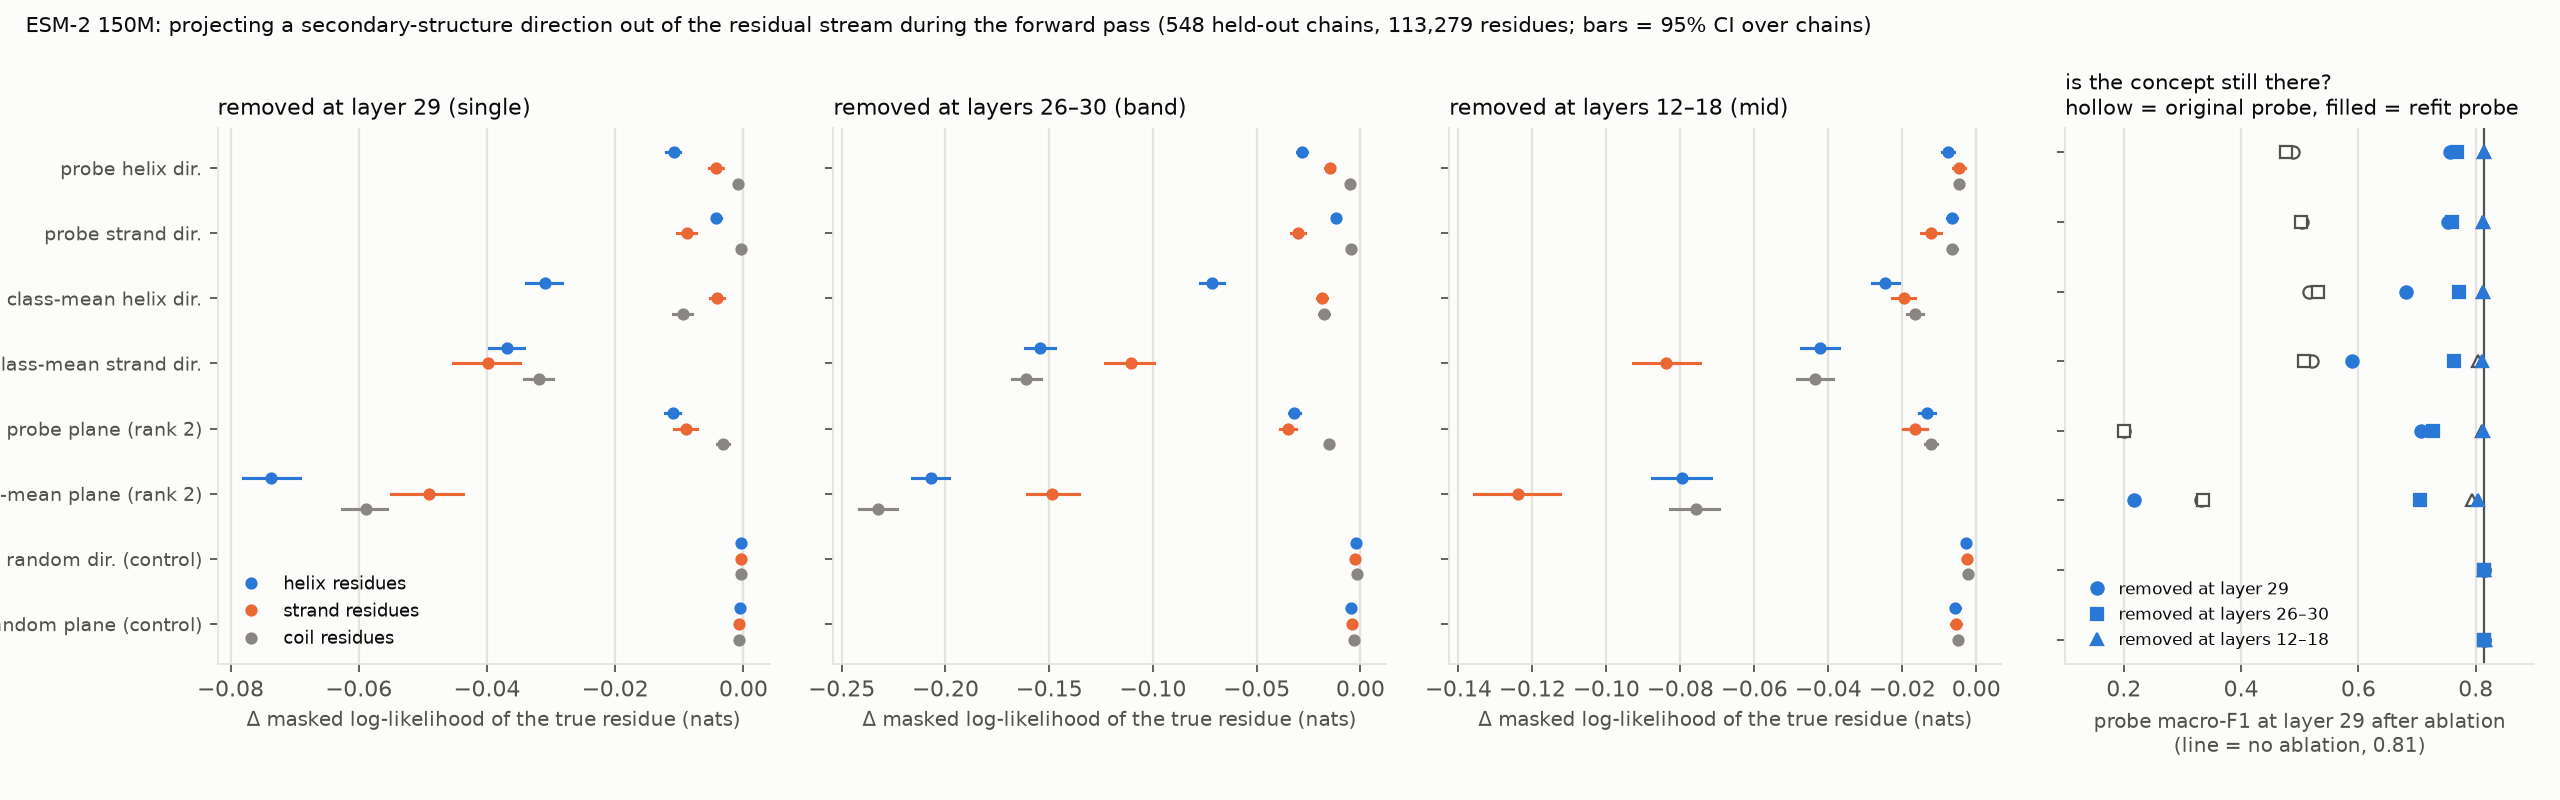
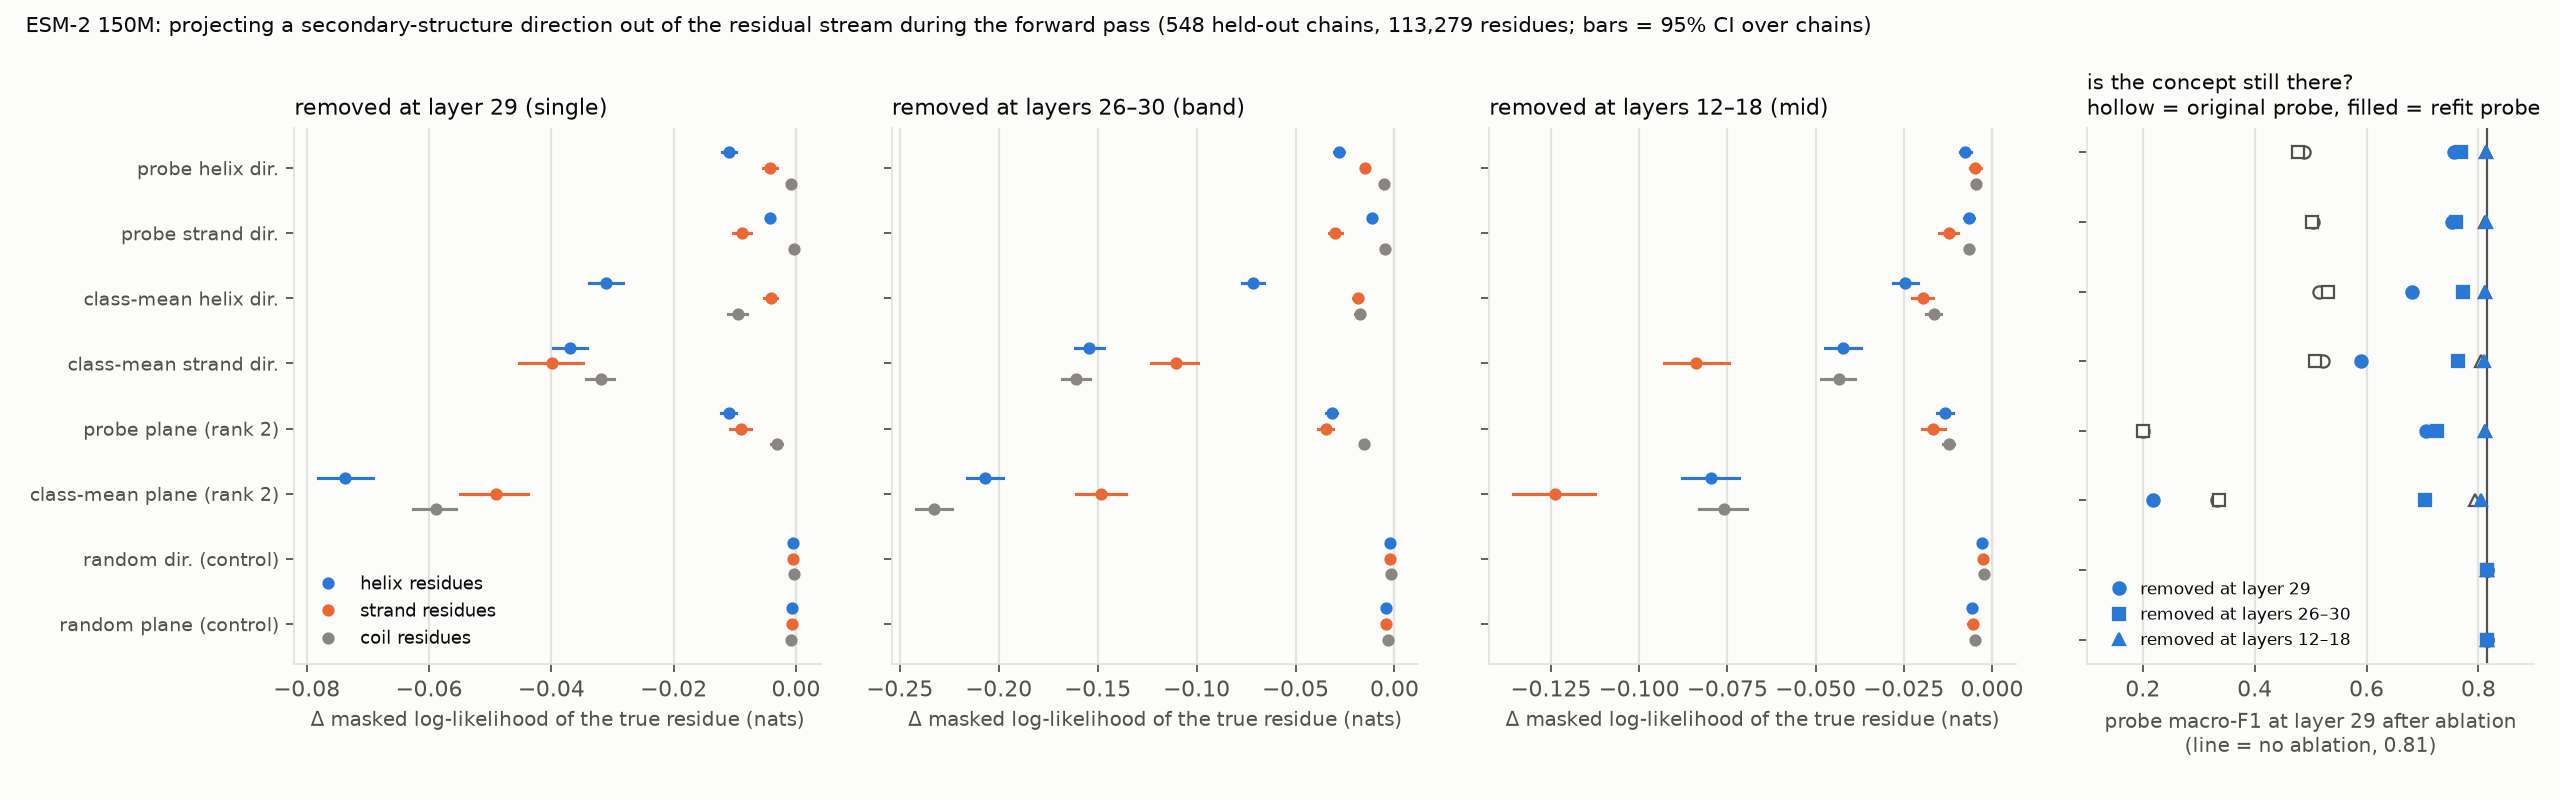
Ablation figure: margins

diff --git a/scripts/p4_figure.py b/scripts/p4_figure.py
@@ -96,7 +96,7 @@ def main() -> None:
     fig.suptitle(f"ESM-2 150M: projecting a secondary-structure direction out of the residual stream during the forward pass "
                  f"({m['n_chains']} held-out chains, {m['n_residues']:,} residues; bars = 95% CI over chains)",
                  color=INK, fontsize=9.5, x=0.01, ha="left")
-    fig.subplots_adjust(left=0.085, right=0.99, top=0.84, bottom=0.17, wspace=0.12)
+    fig.subplots_adjust(left=0.115, right=0.99, top=0.84, bottom=0.17, wspace=0.14)
     out = d / "ablation.png"
     fig.savefig(out, dpi=160, facecolor=SURFACE)
     print(f"saved {out.relative_to(ROOT)}")
